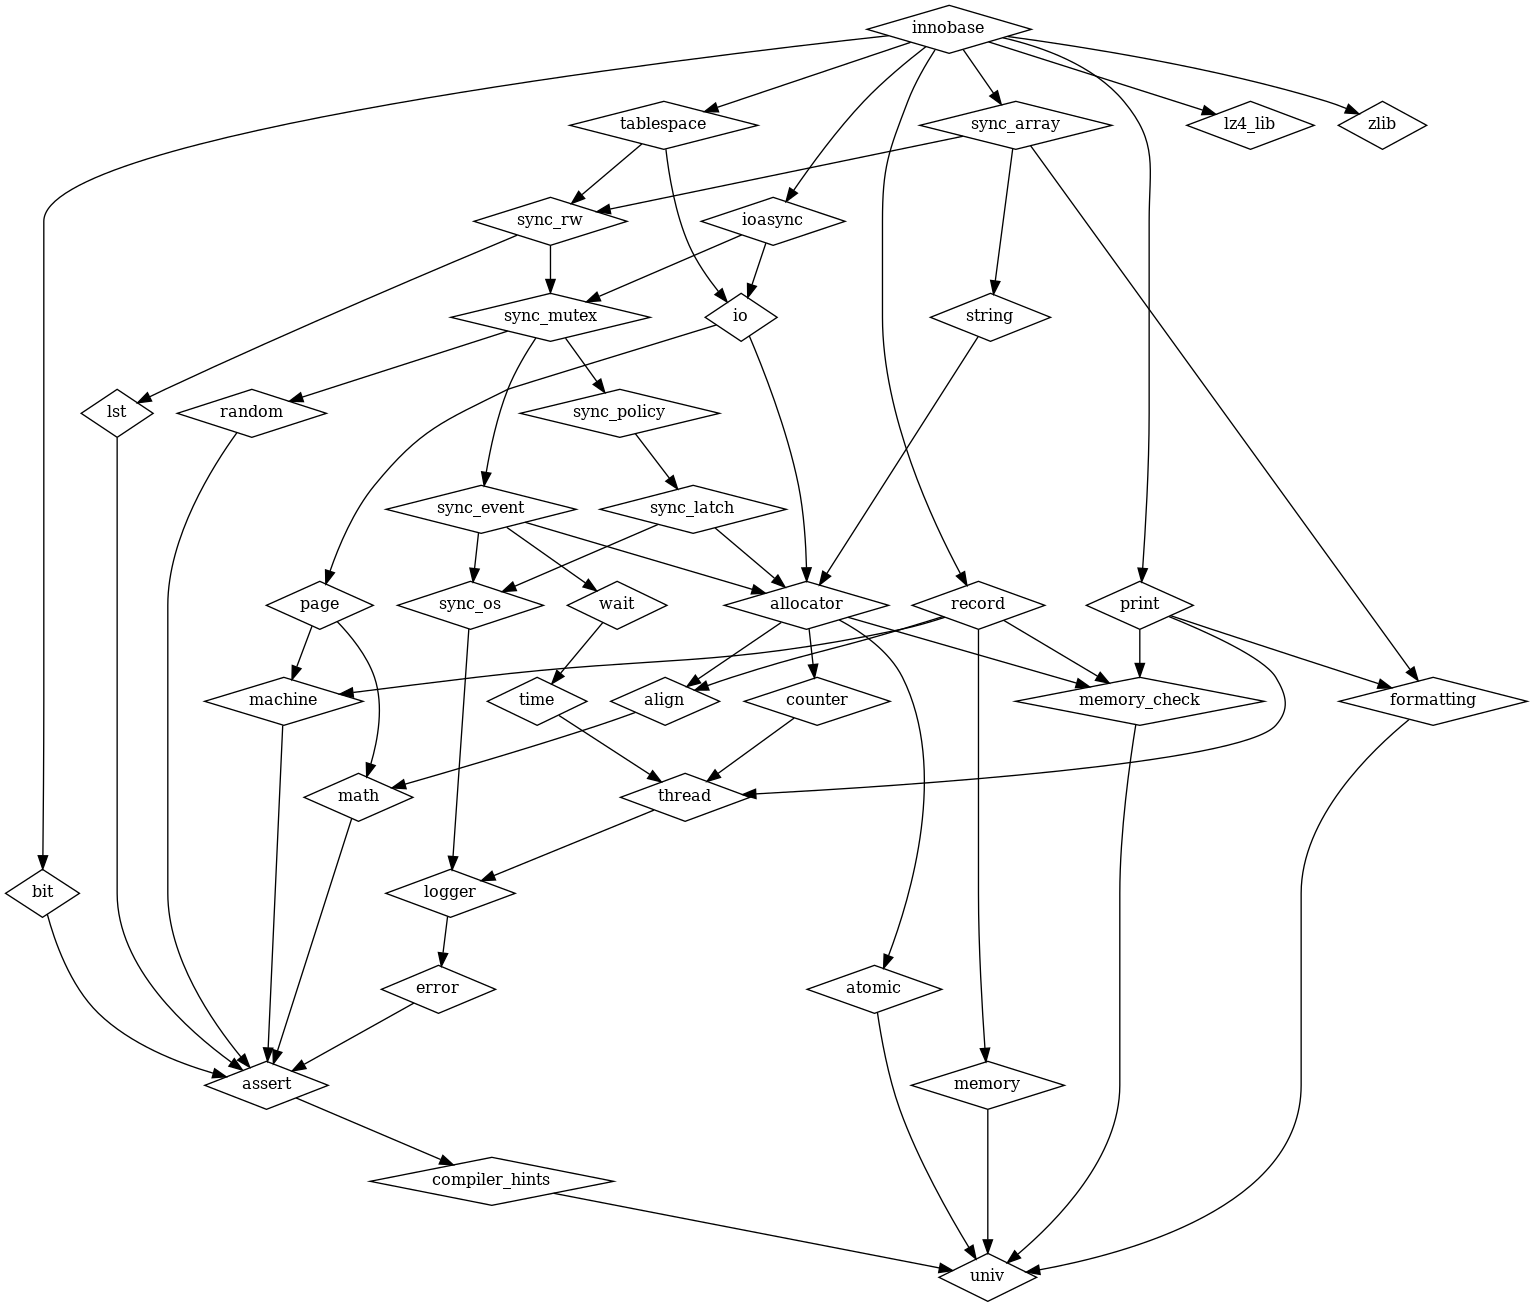
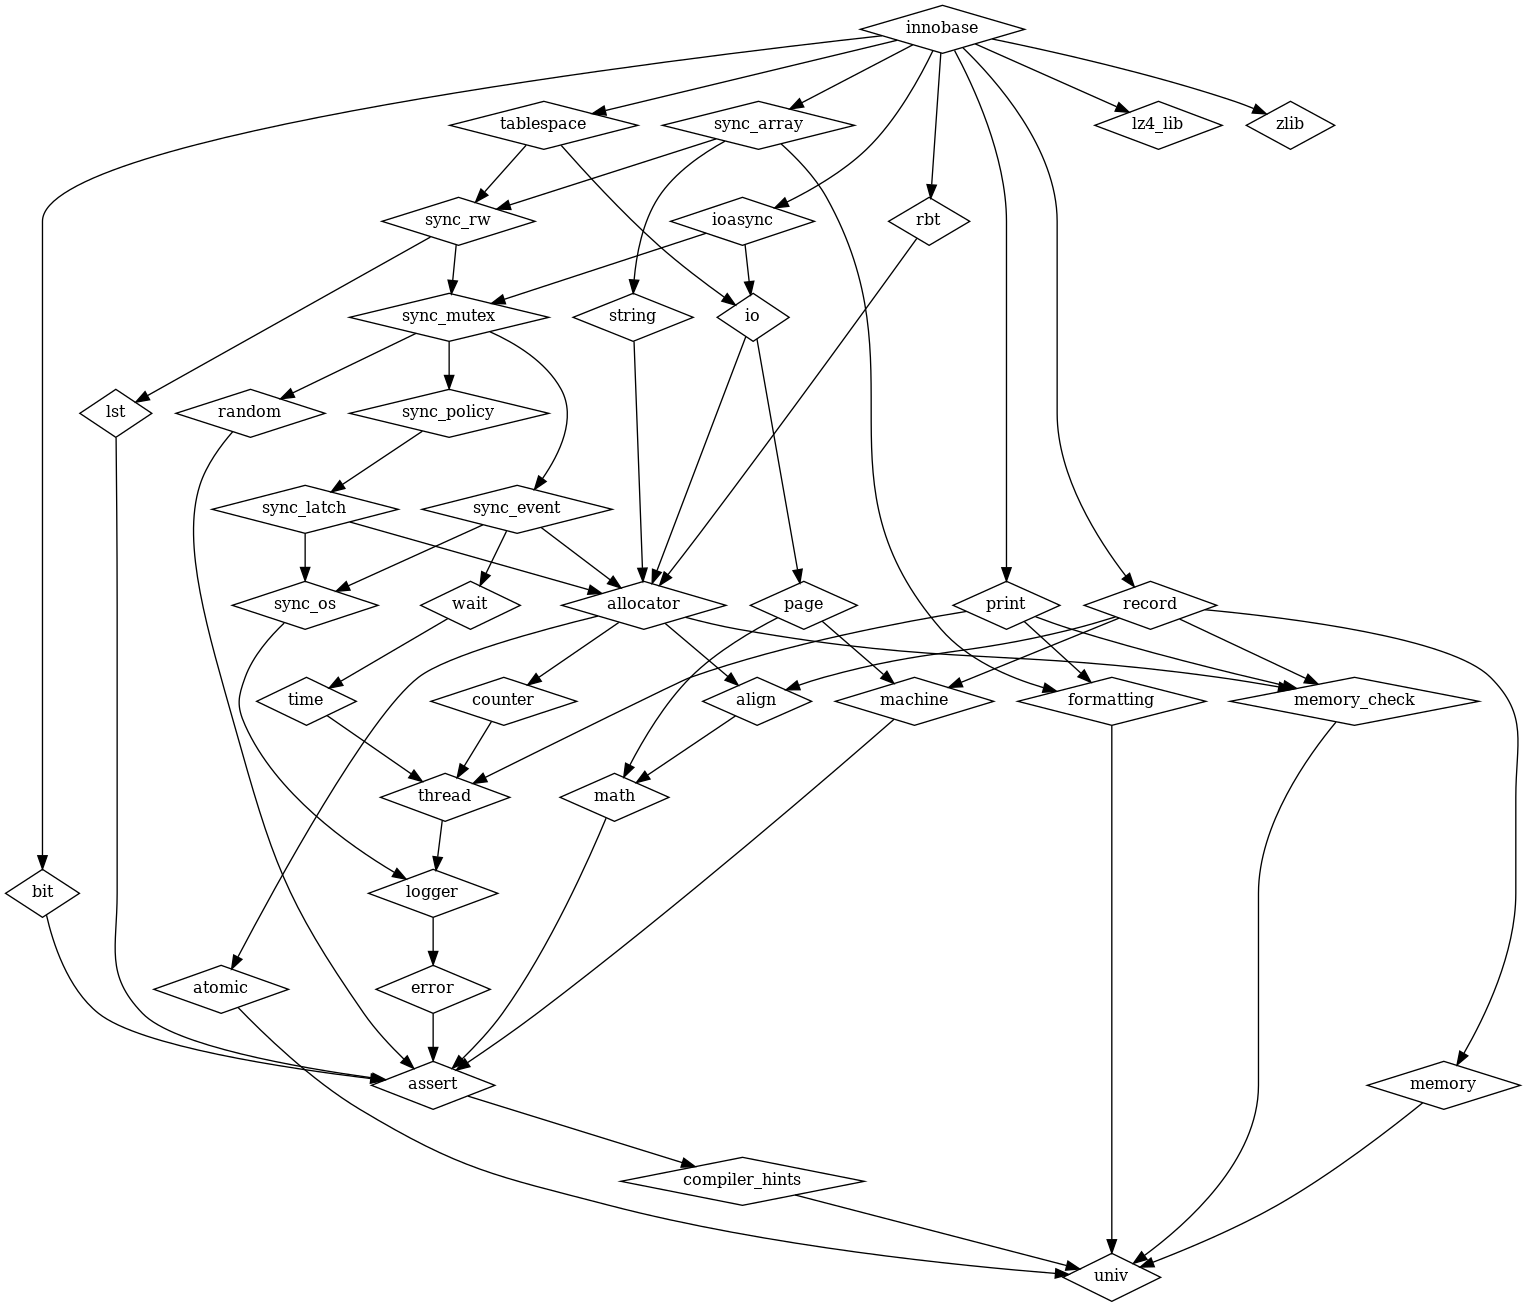
Create rbt (red-black tree) library

diff --git a/storage/innobase/libs/rbt/include/innodb/rbt/rbt.h b/storage/innobase/libs/rbt/include/innodb/rbt/rbt.h
@@ -1,3 +1,6 @@
+#pragma once
+
+
 /*****************************************************************************
 
 Copyright (c) 2007, 2018, Oracle and/or its affiliates. All Rights Reserved.
@@ -29,8 +32,7 @@ this program; if not, write to the Free Software Foundation, Inc.,
  Created 2007-03-20 Sunny Bains
  *******************************************************/
 
-#ifndef INNOBASE_UT0RBT_H
-#define INNOBASE_UT0RBT_H
+
 
 #include <innodb/univ/univ.h>
 
@@ -195,4 +197,4 @@ ulint rbt_merge_uniq(ib_rbt_t *dst,        /*!< in: dst rb tree */
 ibool rbt_validate(const ib_rbt_t *tree); /*!< in: tree to validate */
 #endif                                    /* UNIV_DEBUG || IB_RBT_TESTING */
 
-#endif /* INNOBASE_UT0RBT_H */
+

diff --git a/storage/innobase/libs/rbt/src/rbt.cpp b/storage/innobase/libs/rbt/src/rbt.cpp
@@ -29,7 +29,7 @@
  Created 2007-03-20 Sunny Bains
  ***********************************************************************/
 
-#include "ut0rbt.h"
+#include <innodb/rbt/rbt.h>
 
 #include <innodb/allocator/ut_free.h>
 #include <innodb/allocator/ut_zalloc_nokey.h>

diff --git a/storage/innobase/fts/fts0que.cc b/storage/innobase/fts/fts0que.cc
@@ -49,7 +49,7 @@ this program; if not, write to the Free Software Foundation, Inc.,
 #include "lob0lob.h"
 #include "my_dbug.h"
 #include "row0sel.h"
-#include "ut0rbt.h"
+#include <innodb/rbt/rbt.h>
 
 #define FTS_ELEM(t, n, i, j) (t[(i)*n + (j)])
 

diff --git a/storage/innobase/include/fts0types.h b/storage/innobase/include/fts0types.h
@@ -40,7 +40,7 @@ this program; if not, write to the Free Software Foundation, Inc.,
 #include "pars0pars.h"
 #include "que0types.h"
 
-#include "ut0rbt.h"
+#include <innodb/rbt/rbt.h>
 
 /** Types used within FTS. */
 struct fts_que_t;

diff --git a/storage/innobase/include/fts0fts.h b/storage/innobase/include/fts0fts.h
@@ -50,7 +50,7 @@ this program; if not, write to the Free Software Foundation, Inc.,
 
 #include "row0types.h"
 #include "trx0types.h"
-#include "ut0rbt.h"
+#include <innodb/rbt/rbt.h>
 #include "ut0vec.h"
 #include "ut0wqueue.h"
 

diff --git a/storage/innobase/include/buf0buf.h b/storage/innobase/include/buf0buf.h
@@ -39,7 +39,7 @@ this program; if not, write to the Free Software Foundation, Inc.,
 
 #include "buf0types.h"
 #include "srv0srv.h"
-#include "ut0rbt.h"
+#include <innodb/rbt/rbt.h>
 
 #include <ostream>
 

diff --git a/storage/innobase/libs/rbt/tests/main.cpp b/storage/innobase/libs/rbt/tests/main.cpp
@@ -1,0 +1,9 @@
+#include <gtest/gtest.h>
+
+int main( int argc, char **argv ) 
+{
+    ::testing::InitGoogleTest(&argc, argv);
+    return RUN_ALL_TESTS();
+}
+
+

diff --git a/storage/innobase/libs/rbt/tests/base.cpp b/storage/innobase/libs/rbt/tests/base.cpp
@@ -1,0 +1,12 @@
+#include <gtest/gtest.h>
+#include <innodb/rbt/rbt.h>
+
+
+//
+//
+TEST( rbt, constructor )
+{
+
+}
+
+

diff --git a/storage/innobase/libs/rbt/doc/README.md b/storage/innobase/libs/rbt/doc/README.md
@@ -1,0 +1,18 @@
+Definition of a red-black tree
+==============================
+
+ A red-black tree is a binary search tree which has the following
+ red-black properties:
+
+    1. Every node is either red or black.
+    2. Every leaf (NULL - in our case tree->nil) is black.
+    3. If a node is red, then both its children are black.
+    4. Every simple path from a node to a descendant leaf contains the
+       same number of black nodes.
+
+    from (3) above, the implication is that on any path from the root
+    to a leaf, red nodes must not be adjacent.
+
+    However, any number of black nodes may appear in a sequence.
+
+
